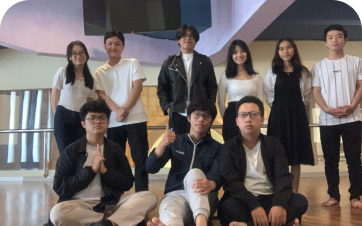
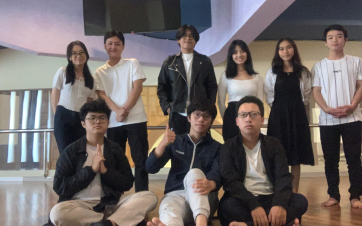
update(visi-misi-images): lower the image size

Changed region(s): [[0.9116, 0.0, 1.0, 0.0929], [0.0, 0.0, 0.0608, 0.0929]]

diff --git a/app/(root)/page.tsx b/app/(root)/page.tsx
@@ -34,7 +34,7 @@ export default function Home() {
         <>
             <header
                 id="home"
-                className="bg-hero bg-no-repeat bg-center bg-cover lg:h-screen md:h-[90vh] sm:h-[80vh] h-[50vh] flex items-center"
+                className="bg-hero bg-no-repeat bg-center bg-cover md:h-[90vh] sm:h-[80vh] h-[50vh] flex items-center"
             >
                 <div className="main-container hero">
                     <h4 className="text-center text-white lg:text-4xl md:text-2xl sm:text-xl text-sm font-medium">
@@ -74,11 +74,30 @@ export default function Home() {
                         </div>
                     </div>
 
-                    <div className="visi-misi-images md:w-1/2 order-2">
-                        <img
-                            src="/assets/visi-misi.png"
-                            alt="Visi misi image"
-                        />
+                    <div className="md:w-1/2 w-full h-[100%] order-2 relative">
+                        <div className="relative w-full 2xl:h-[31rem] xl:h-[30rem] lg:h-[24rem] lg:block flex flex-wrap">
+                            {/* decoration */}
+                            <div className="circle xl:w-[67px] lg:w-[55px] xl:h-[67px] lg:h-[55px] bg-light-secondary rounded-full absolute lg:block hidden bottom-20 left-5"></div>
+                            <div className="circle xl:w-[57px] lg:w-[45px] xl:h-[57px] lg:h-[45px] bg-secondary rounded-full absolute lg:block hidden bottom-0 right-[19%]"></div>
+                            <div className="circle xl:w-[47px] lg:w-[35px] xl:h-[47px] lg:h-[35px] bg-primary rounded-full absolute lg:block hidden top-8 right-[6%]"></div>
+                            
+                            {/* images */}
+                            <div className="2xl:w-44 xl:w-32 lg:w-28 w-5/12 h-auto lg:absolute xl:right-28 lg:right-20 top-0 lg:rounded-l-3xl lg:rounded-br-3xl rounded-sm object-cover lg:overflow-hidden">
+                                <img src="/assets/gallery/img-4.webp" alt="image" className="p-1 w-full h-full lg:aspect-square aspect-[4/3] object-cover" />
+                            </div>
+                            
+                            <div className="2xl:w-80 xl:w-[17rem] lg:w-52 w-7/12 h-auto lg:absolute left-0 top-0 lg:rounded-l-3xl lg:rounded-br-3xl rounded-sm object-cover lg:overflow-hidden">
+                                <img src="/assets/gallery/img-2.webp" alt="image" className="p-1 w-full h-full aspect-[4/3] object-cover" />
+                            </div>
+                            
+                            <div className="2xl:w-48 xl:w-40 lg:w-32 w-7/12 h-auto lg:absolute xl:left-28 lg:left-20 xl:bottom-10 lg:bottom-16 lg:rounded-r-3xl lg:rounded-tl-3xl rounded-sm object-cover lg:overflow-hidden">
+                                <img src="/assets/gallery/custom-img-5.webp" alt="image" className="p-1 w-full h-full lg:aspect-square aspect-[4/3] object-cover" />
+                            </div>
+                            
+                            <div className="2xl:w-72 xl:w-60 lg:w-48 w-5/12 h-auto lg:absolute right-0 bottom-20 lg:rounded-l-3xl lg:rounded-tr-3xl rounded-sm object-cover lg:overflow-hidden">
+                                <img src="/assets/gallery/img-1.webp" alt="image" className="p-1 w-full h-full aspect-[4/3] object-cover" />
+                            </div>
+                        </div>
                     </div>
                 </div>
             </section>
@@ -96,7 +115,7 @@ export default function Home() {
 
                     <div className="flex flex-wrap md:flex-nowrap justify-between">
                         {list_member.map((value) => (
-                            <div className="md:w-1/3 sm:w-1/2 w-full p-3 flex flex-col items-center gap-2">
+                            <div className="md:w-1/3 sm:w-1/2 w-full p-3 flex flex-col items-center gap-2" key={value.id}>
                                 <div className="member-img sm:w-5/6 w-2/3">
                                     <img
                                         src={value.img}

diff --git a/components/root/Kegiatan.tsx b/components/root/Kegiatan.tsx
@@ -22,7 +22,7 @@ function Kegiatan() {
         },
         {
             id: 3,
-            img: "/assets/kegiatan-3.jpg",
+            img: "/assets/natal-bersama.jpg",
             name: "natal bersama",
             description:
                 "Ibadah ini dilakukan dilingkup anggota RP Tiberias menjelang hari Natal. Kami akan melakukan sharing dan memaknai natal dengan hikmat bersama-sama.",
@@ -48,11 +48,11 @@ function Kegiatan() {
                             className="lg:w-[31%] sm:w-[47%] w-full"
                         >
                             <div className="card hover:bg-primary active:bg-primary transition-all group">
-                                <div className="aspect-[4/2] w-full">
+                                <div className="aspect-[4/2] w-full rounded-t-md overflow-hidden">
                                     <img
                                         src={value.img}
                                         alt={value.name}
-                                        className="w-full"
+                                        className="w-full object-cover"
                                     />
                                 </div>
 
@@ -60,7 +60,7 @@ function Kegiatan() {
                                     <h4 className="capitalize text-center font-semibold">
                                         {value.name}
                                     </h4>
-                                    <p className="desc">
+                                    <p className="lg:text-sm text-xs text-justify text-ellipsis line-clamp-3">
                                         {value.description}
                                     </p>
                                 </div>

diff --git a/tailwind.config.ts b/tailwind.config.ts
@@ -12,12 +12,13 @@ const config: Config = {
         "gradient-radial": "radial-gradient(var(--tw-gradient-stops))",
         "gradient-conic":
           "conic-gradient(from 180deg at 50% 50%, var(--tw-gradient-stops))",
-        "hero": "linear-gradient(to bottom, rgba(0,0,0,.4) 5%, rgba(30, 30, 30, 1) 80%), url('/assets/hero-bg.jpg')",
+        "hero": "linear-gradient(to bottom, rgba(0,0,0,.4) 5%, rgba(30, 30, 30, 1) 80%), url('/assets/hero-bg.webp')",
         "primary": "var(--primary-color)",
       },
       colors: {
         "primary": "var(--primary-color)",
-        "secondary": "var(--secondary-color)"
+        "secondary": "var(--secondary-color)",
+        "light-secondary": "var(--light-secondary-color)"
       }
     },
   },

diff --git a/app/globals.css b/app/globals.css
@@ -9,6 +9,7 @@
   --background-end-rgb: 255, 255, 255;
   --primary-color: #F58740;
   --secondary-color: #F5A740;
+  --light-secondary-color: #F5BC3B;
 }
 
 /* @media (prefers-color-scheme: dark) {
@@ -81,16 +82,5 @@ body {
   
   .card {
     @apply rounded-md shadow-2xl;
-  }
-  
-  .desc{
-    @apply lg:text-sm text-xs text-justify truncate text-ellipsis;
-    display: -webkit-box;
-    -webkit-line-clamp: 4;
-    -webkit-box-orient: vertical;
-    overflow: hidden;
-    white-space: normal;
-    overflow: hidden;
-    text-overflow: ellipsis;
-  }
+  }  
 }

diff --git a/app/(root)/layout.tsx b/app/(root)/layout.tsx
@@ -10,7 +10,7 @@ const poppins = Poppins({
     display: 'swap',
     variable: '--font-poppins',
     weight: ['100', '200', '300', '400', '500', '600', '700', '800', '900']
-  });
+});
 
 export const metadata: Metadata = {
     title: "RP Tiberias - GKKB Pontianak",
